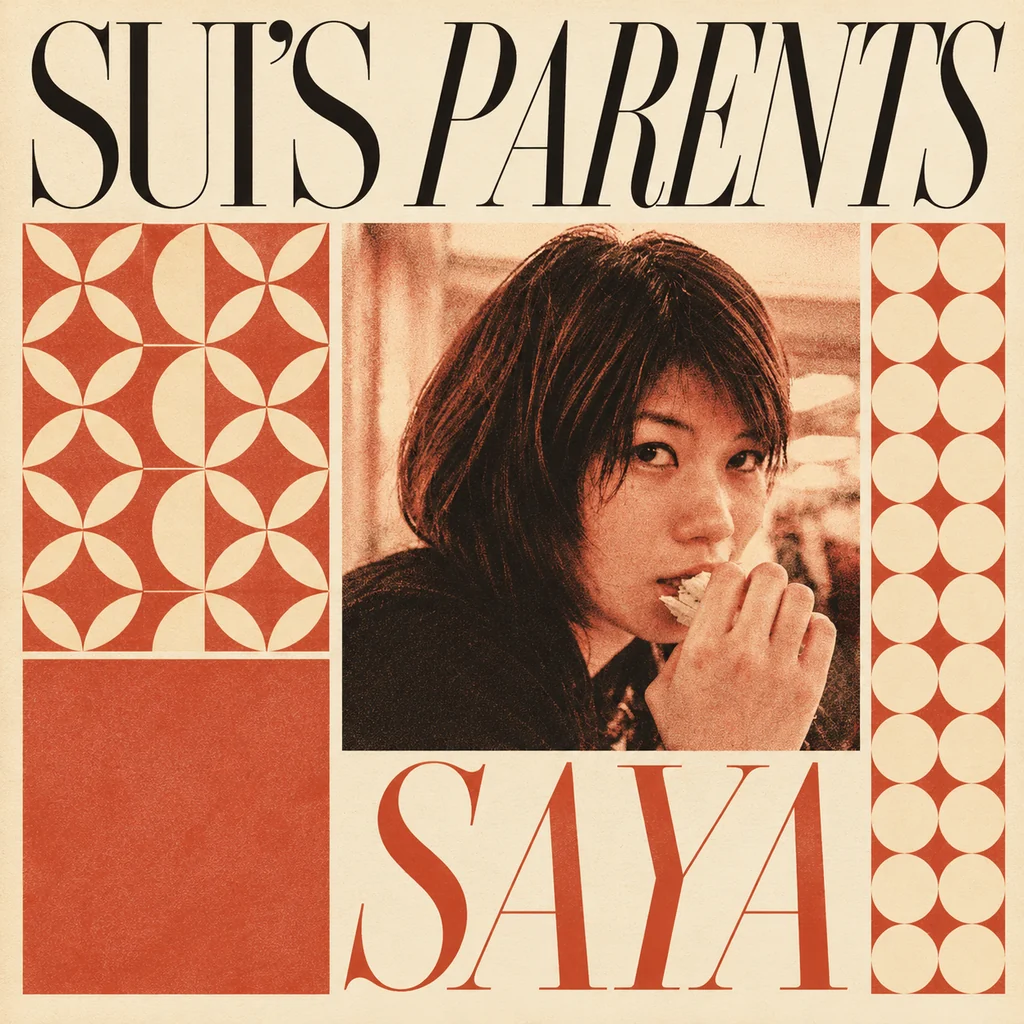
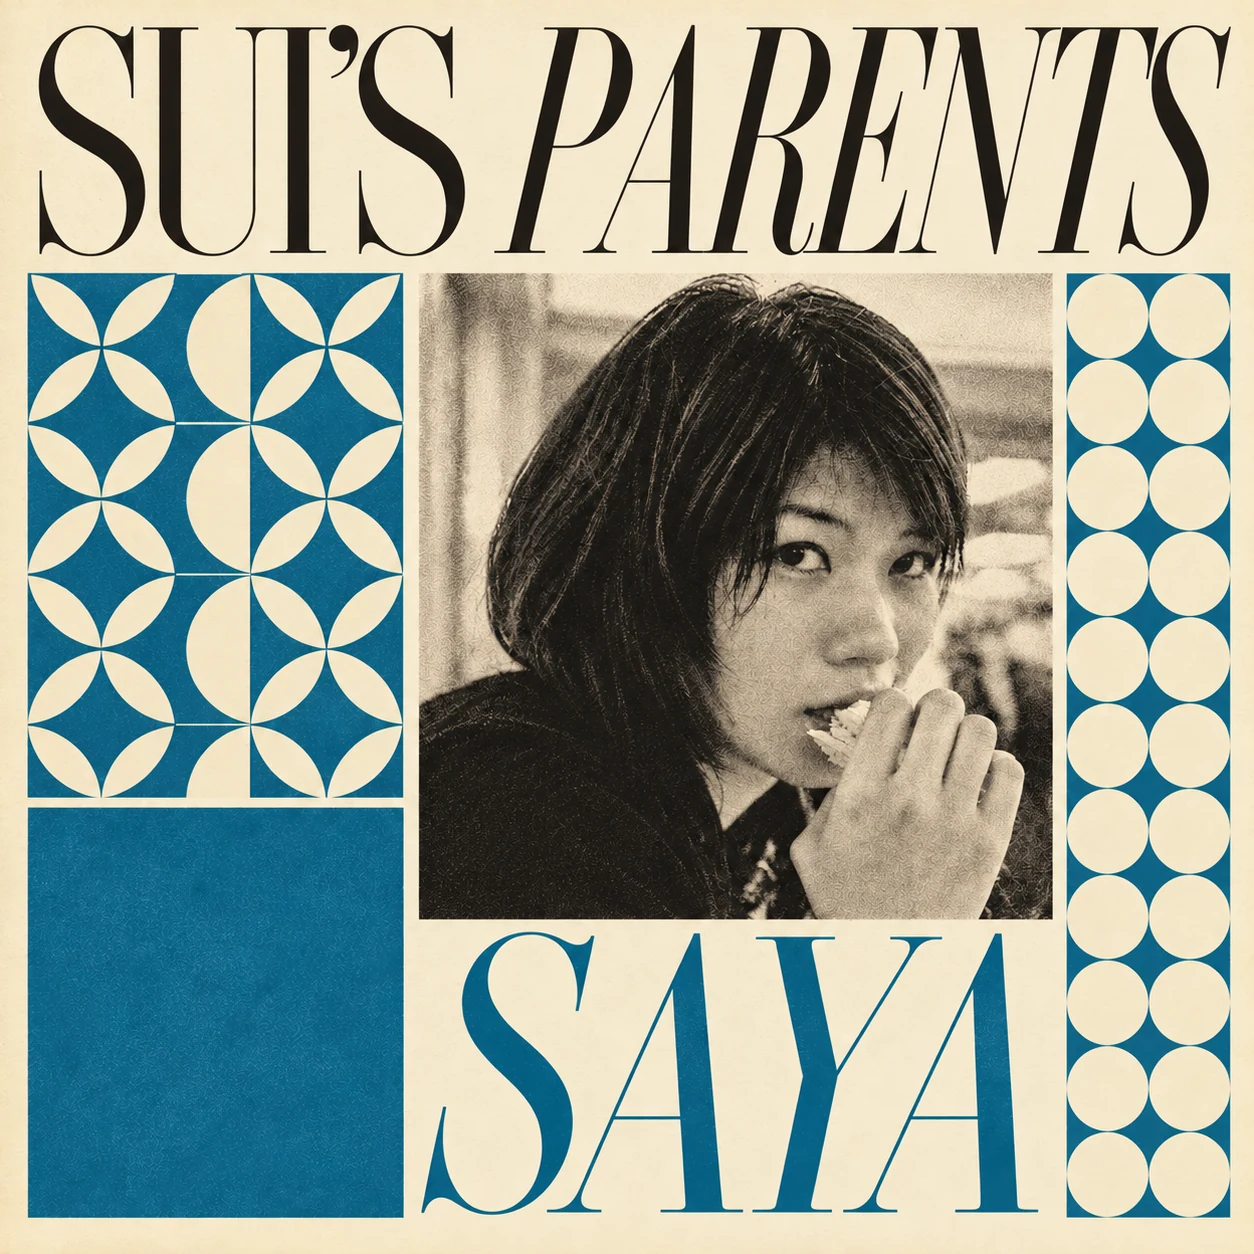
Harmonize gallery artwork palette with Premium Cuts

diff --git a/build.py b/build.py
@@ -27,12 +27,12 @@ about_posters = [
  ('07', 'Marionnettes', '仮面と装飾的な人形を青とクリーム色の文字構成でまとめたポスター'),
  ('11', 'SAYA', 'SAYAの肖像を余白と朱色の帯で構成した正方形のレコードジャケット風アート'),
  ('12', 'SAYA', 'グラスを持つSAYAの肖像と反復する青い文字を組み合わせた正方形のアート'),
- ('13', 'SAYA', 'SAYAの肖像を朱色とクリーム色の幾何学模様で囲んだ正方形のアート'),
+ ('13', 'SAYA', 'SAYAの肖像を青とクリーム色の幾何学模様で囲んだ正方形のアート'),
  ('14', 'NAOYA', '通路に立つNAOYAとArt is their playgroundの文字を組み合わせた正方形のアート'),
  ('17', 'SAYA', 'SAYAの肖像を青い縦組みの文字と暖色のアクセントで構成した正方形のアート'),
  ('18', 'Listening to music', '回転遊具を見上げる写真にListening to musicの文字を添えた青とクリーム色の正方形のアート'),
  ('15', 'SUI', '海辺のSUIを青い文字とクリーム色の余白で構成した正方形のアート'),
- ('16', 'SUI', 'SUIの表情を朱色の文字と筆跡で描いた正方形のアート'),
+ ('16', 'SUI', 'SUIの表情を青い文字とサーモンピンクの筆跡で描いた正方形のアート'),
  ('19', 'SUI', 'SUIの肖像にWelcomed SUI in 2016の一文を添えた青とサーモンピンクの正方形のアート'),
  ('20', 'SUI', '両手を広げるSUIとArt is their playgroundの一文を組み合わせた正方形のアート'),
 ]
